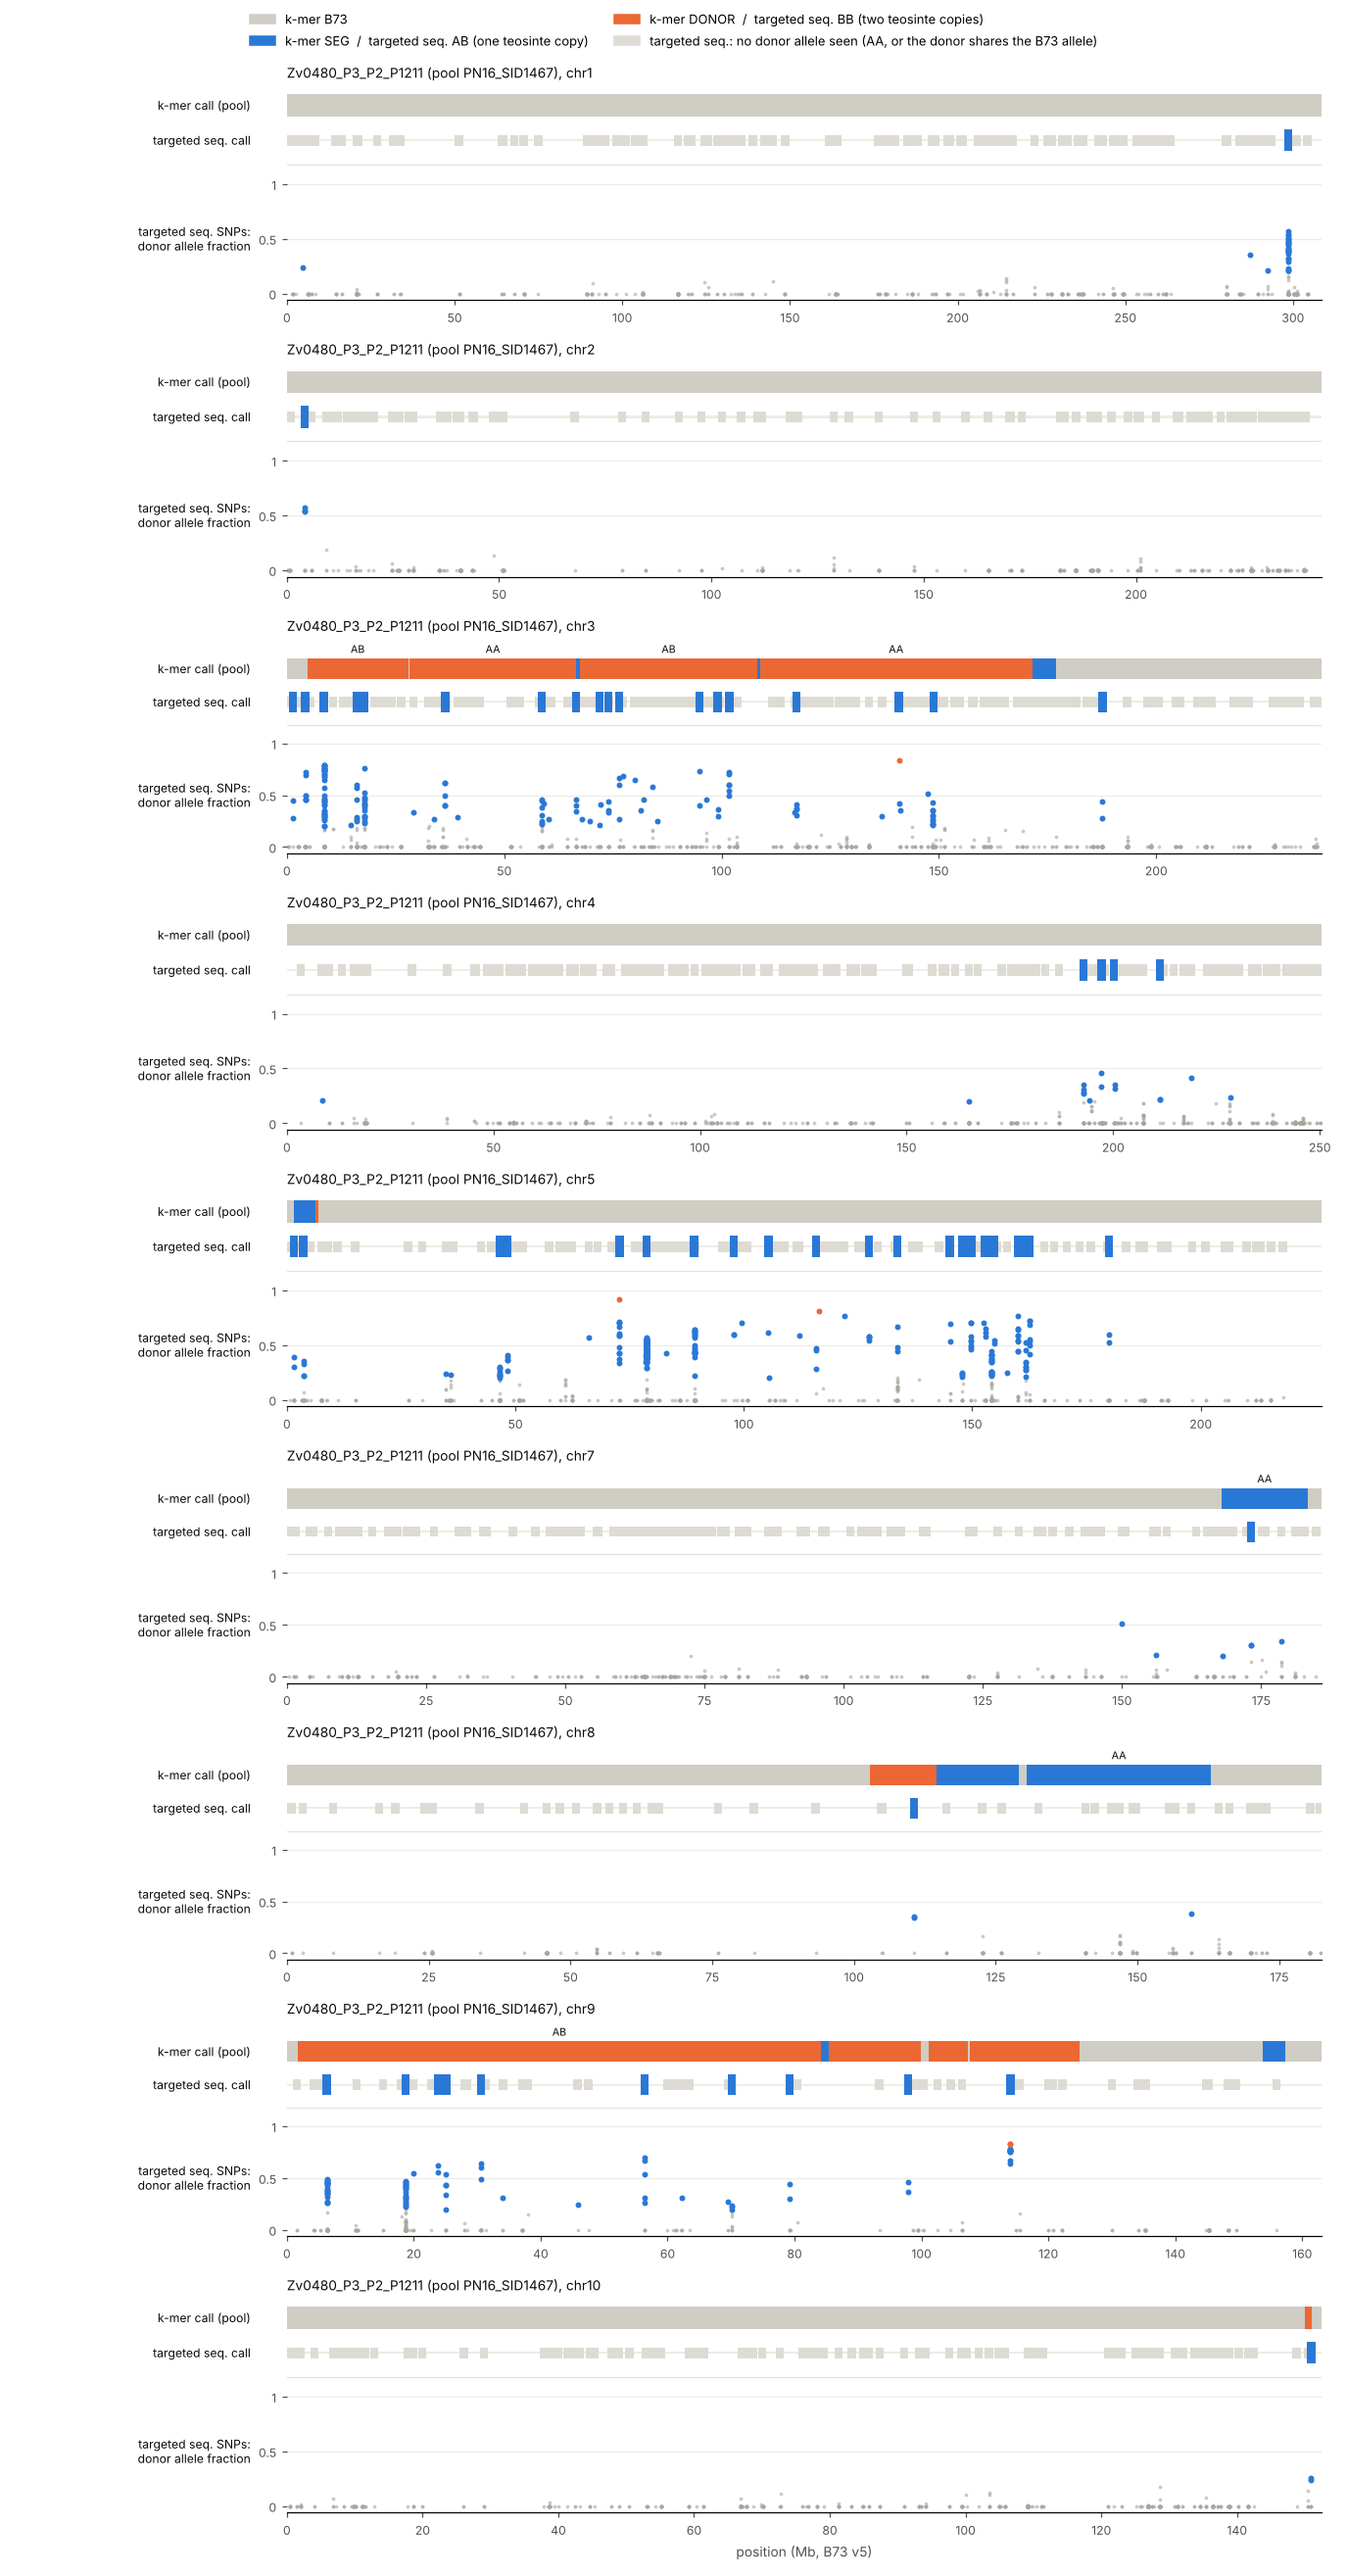
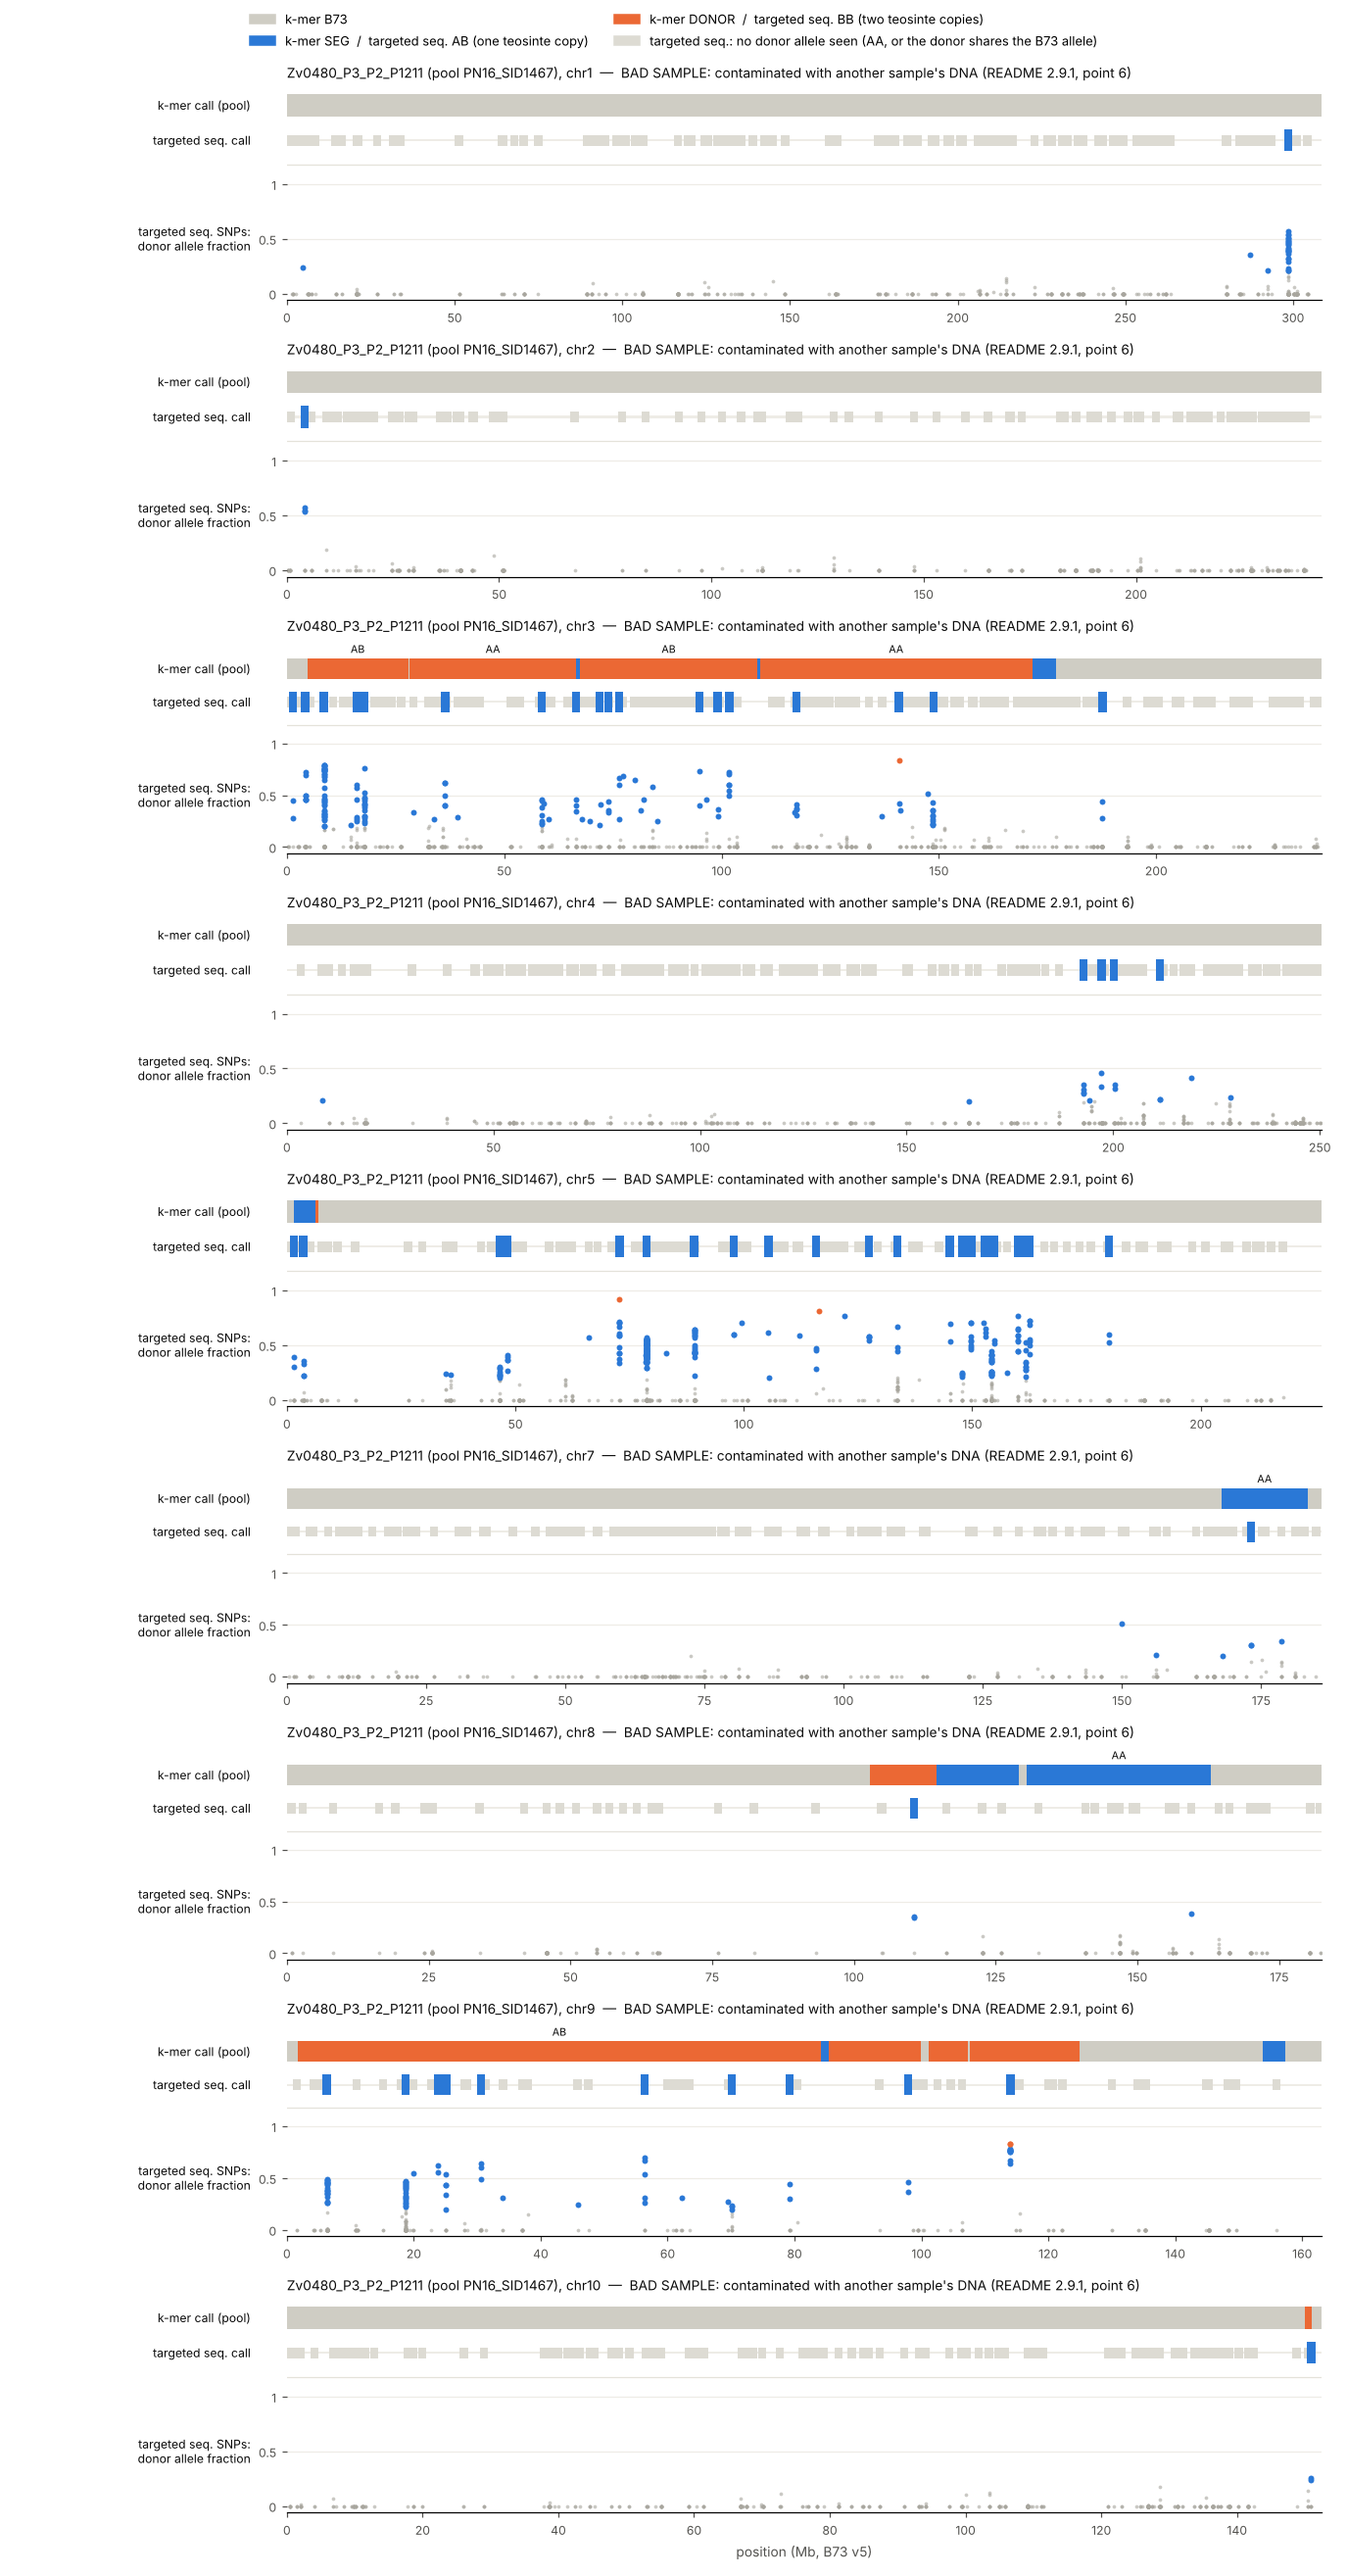
Targeted-seq gallery: flag the three bad samples in their figure titles

diff --git a/final_script/34f_targseq_examples.py b/final_script/34f_targseq_examples.py
@@ -127,6 +127,10 @@ if a.gallery_dir:
     import os
     os.makedirs(a.gallery_dir, exist_ok=True)
     TT = pd.read_csv(a.targseq_tracts, sep="\t") if a.targseq_tracts else None
+    # the three bad samples of README 2.9.1 point 6: flagged in the title so the figure is not read as a model error
+    BAD = {"Zv0480_P3_P2_P1211": "BAD SAMPLE: contaminated with another sample's DNA (README 2.9.1, point 6)",
+           "Zx0090_P2_P5_P1111": "BAD SAMPLE: swap or wrong plant (README 2.9.1, point 6)",
+           "Zx0160_P2_P4_P1111": "BAD SAMPLE: swap or wrong plant (README 2.9.1, point 6)"}
     made = []
     for smp, xs in S.groupby("sample"):
         pool = xs.pool.iloc[0]
@@ -143,7 +147,7 @@ if a.gallery_dir:
             if TT is not None:
                 q = TT[(TT["sample"] == smp) & (TT.chr == ch) & (TT.our_call != "B73") & TT.plant_genotype.isin(["AA", "AB", "BB"])]
                 lab = [(r.start, r.end, r.plant_genotype) for r in q.itertuples()]
-            draw(ax, smp, ch, None, None, f"{smp} (pool {pool}), {ch}", lab)
+            draw(ax, smp, ch, None, None, f"{smp} (pool {pool}), {ch}" + (f"  —  {BAD[smp]}" if smp in BAD else ""), lab)
         axes[-1, 0].set_xlabel("position (Mb, B73 v5)", fontsize=9, color=MUTED)
         legend(fig)
         fig.tight_layout(rect=(0.09, 0, 1, 1 - 0.45 / (2.6 * len(chs) + 0.5)))
